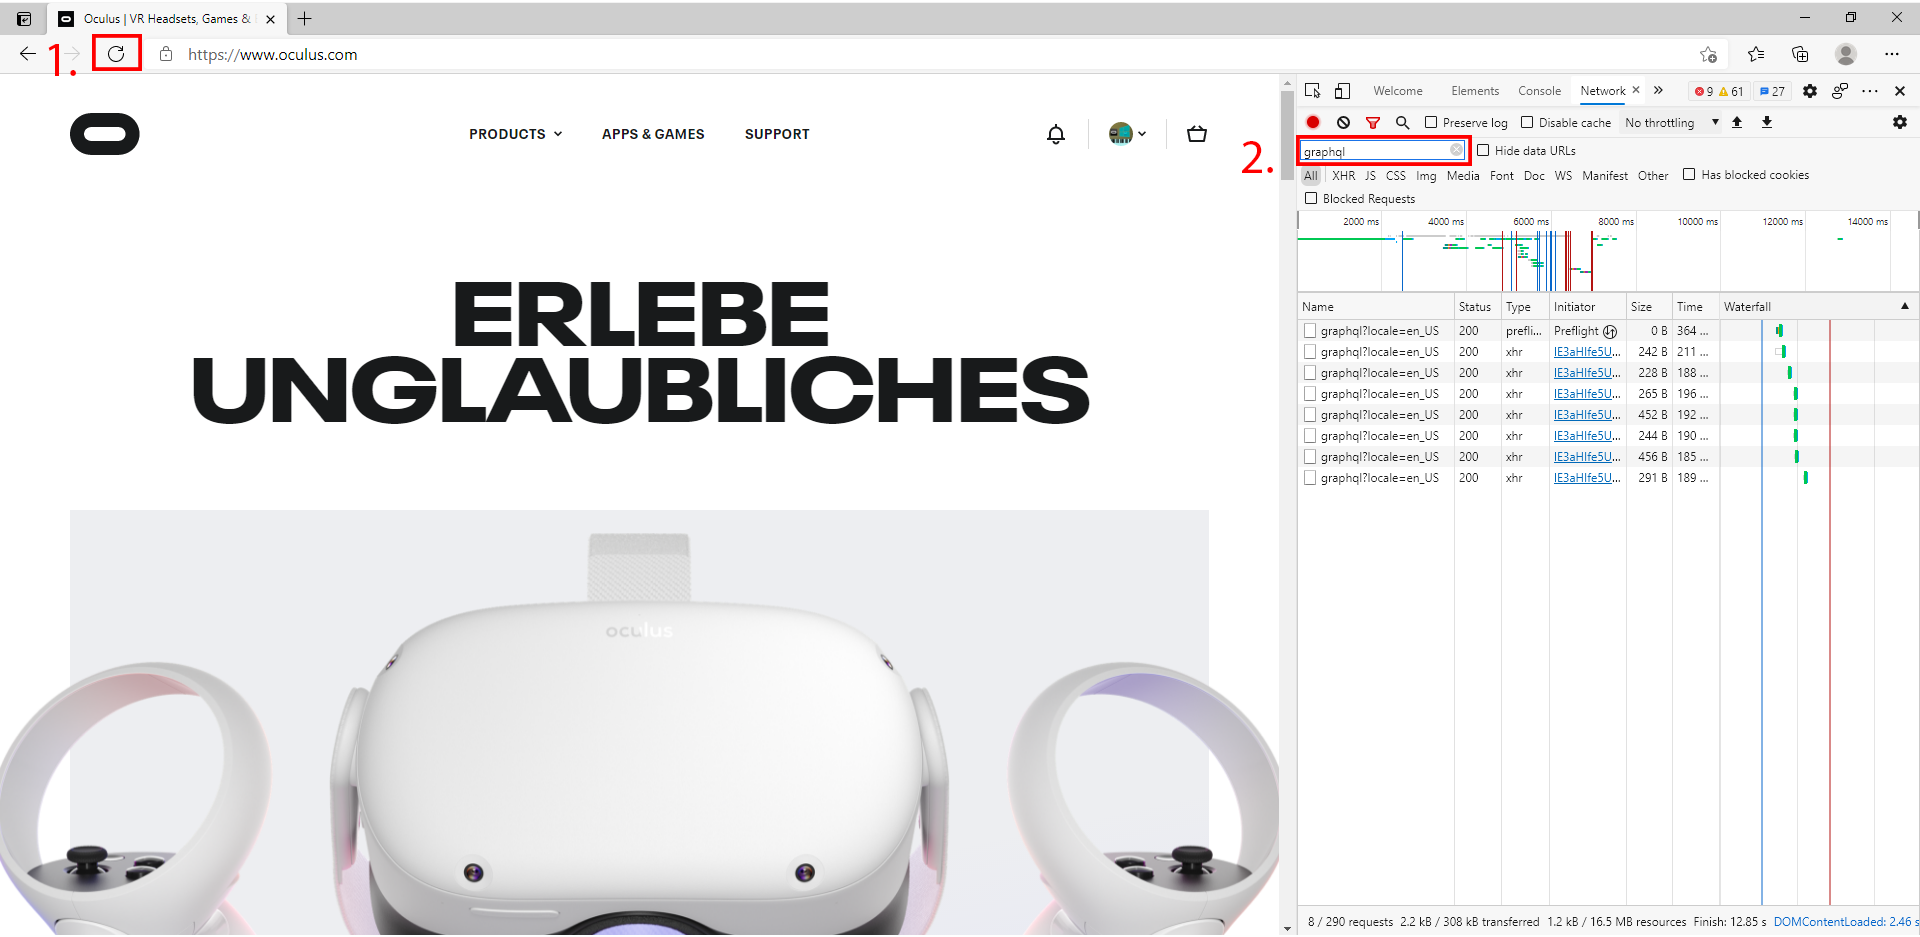
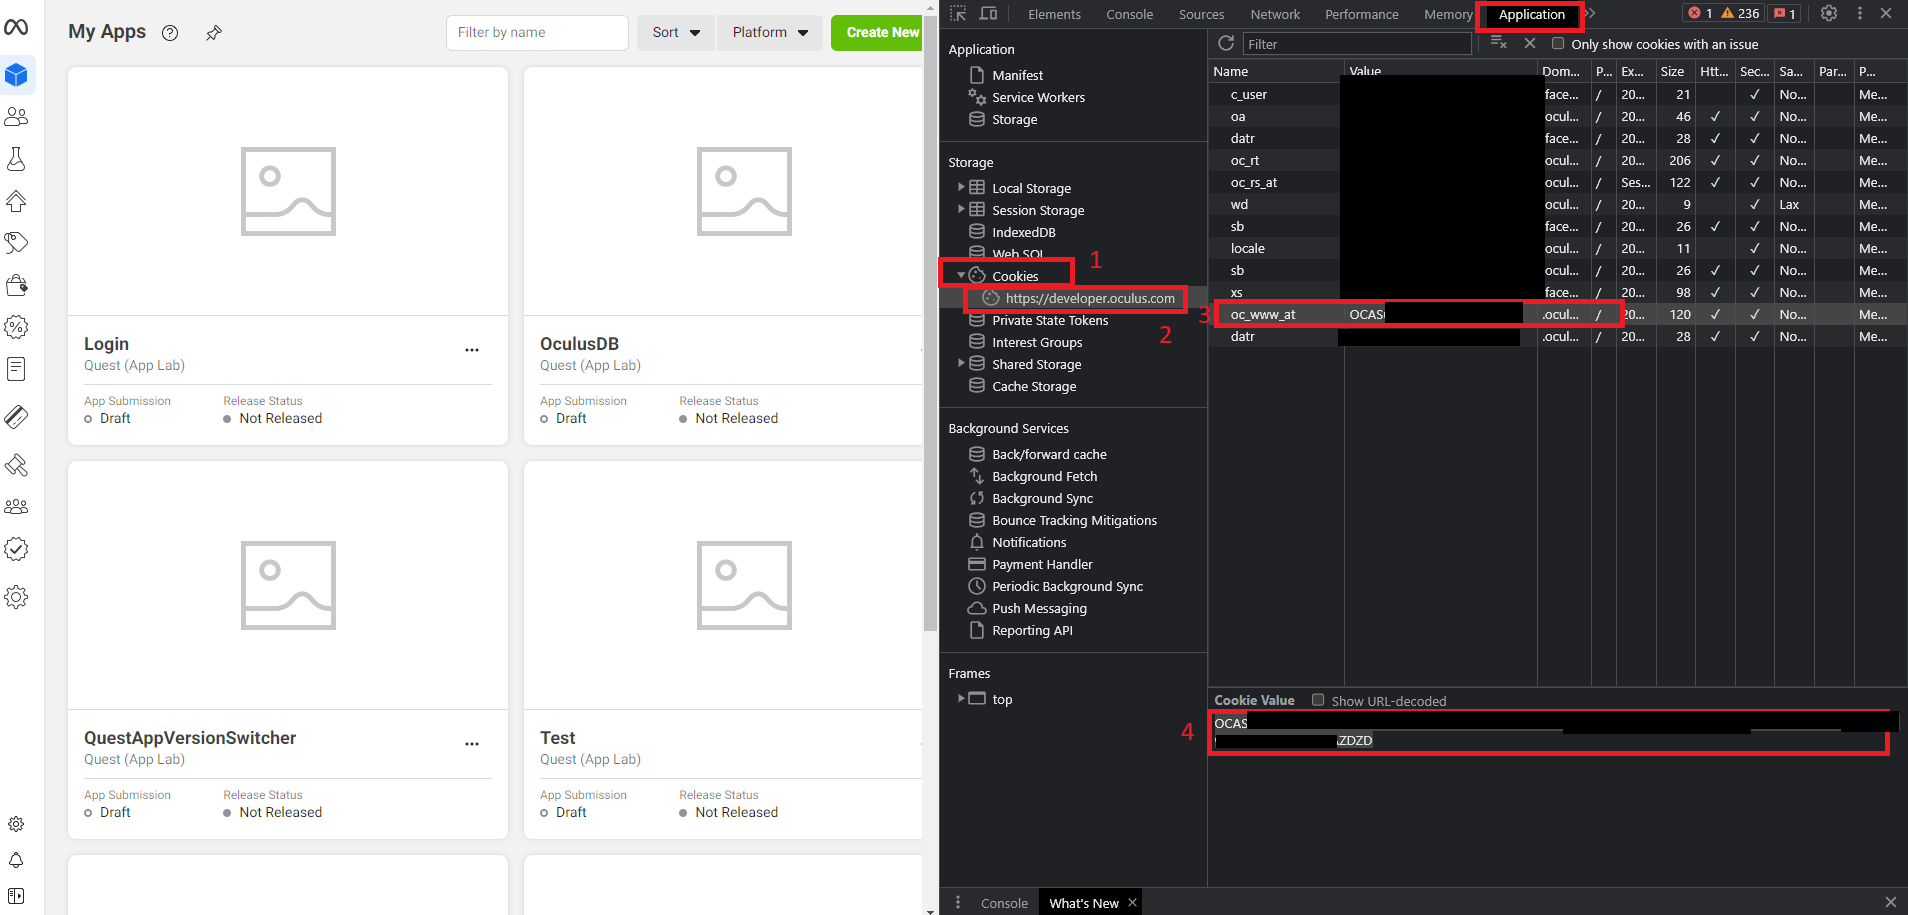
Update token guide

diff --git a/tools/Oculus/ObtainToken.html b/tools/Oculus/ObtainToken.html
@@ -41,10 +41,6 @@
                         <div style="font-size: 24px;">Guide to obtain your Oculus Token</div>
                         <div class="headerDescription">For <a href="https://github.com/ComputerElite/Oculus-downgrader/">Oculus downgrader</a> and other applications</div>
                     </div>
-                    <div class="guideHeader" style="text-align:left; padding: 5px; text-decoration: underline;">Info: Is this tool piracy?</div>
-                    <div class="guideSteps" style="text-align:left; padding: 10px;">
-                        No. You're downloading from Oculus servers and those check that you own the game
-                    </div>
                     <div class="guideHeader" style="text-align:left; padding: 5px; text-decoration: underline;">Important</div>
                     <div class="guideSteps" style="text-align:left; padding: 10px;">
                         Your token is something private. Everyone who has it can download apps, send messages, ... with your name.
@@ -56,52 +52,17 @@
                     </div>
                     <div class="header">Step 2: Open developer tools</div>
                     <div class="step">
-                        <b>PC and Mac:</b>
+                        <b>Chrome:</b>
                         <br/>
-                        On <a href="https://developer.oculus.com/manage">https://developer.oculus.com/manage</a> hit ctrl + shift + i and go to the network tab (see picture)
+                        On <a href="https://developer.oculus.com/manage">https://developer.oculus.com/manage</a> hit ctrl + shift + i and go to the Application tab
                         <br/>
                         <br/>
-                        <b>Kiwi Browser (Android):</b>
-                        <br>
-                        <b>If you haven't already install Kiwi Browser from the Play Store</b>
-                        <br/>
-                        On <a href="https://developer.oculus.com/manage">https://developer.oculus.com/manage</a> tap the 3 dots in the top right and tap on <code>developer tools</code>
                     </div>
-                    <div class="image">
-                        <img src="Steps/Step2.png" width="100%">
-                    </div>
-                    <div class="header">Step 3: Reload the page and filter for graphql</div>
+                    <div class="header">Step 3: Copy the access_token</div>
                     <div class="step">
-                        <b>PC and Mac:</b>
-                        <br/>
-                        Reload the page next to your address bar (1).<br/>
-                        Then in the network tab type <code>graphql</code> into the filter box (2).
+                        Next click on <code>Cookies</code> (1) then <code>https://developer.oculus.com</code> (2) and then <code>oc_www_at</code> (3). You can then copy your token (4) and validate it via the box below.
                         <br/>
                         <br/>
-                        <b>Kiwi Browser (Android):</b>
-                        <br/>
-                        Switch the tab to the developer tools tab that just opened. Click the arrows to the right on the top and click <code>Network</code>. Filter for <code>graphql</code>. Go back to the tab in which you have https://developer.oculus.com/manage open and reload the site.
-                    </div>
-                    <div class="image">
-                        <img src="Steps/Step3.png" width="100%">
-                    </div>
-                    <div class="header">Step 4: Copy the access_token</div>
-                    <div class="step">
-                        Next click the last request (1) and open the payload tab (2) (if payload is not present go to the header tab). Then search for a label named <code>access_token</code>. Copy the text after that (3). You can copy it by right clicking and pressing copy value.
-                        <br/>
-                        <br/>
-                        <b>Firefox:</b>
-                        <br/>
-                        Next click the last request (1) and open the request tab. Then search for a label named <code>access_token</code> and copy its value (3). You can copy it by right clicking and pressing copy value.
-                        <br/>
-                        <br/>
-                        <b>Kiwi Browser (Android):</b>
-                        <br/>
-                        Go back to the dev tools tab and click on the last request at the bottom. Then in the headers tab tap and hold on <code>access_token: </code> and tap copy value.
-                        <br/>
-                        <br/>
-                        Before putting your token it you can check the validity of your token by pasting it into this text box and clicking <code>Validate token</code>
-                        <br>
                         <input type="password" id="token" style="width: 700px; max-width: 100%;">
                         <div class="customButton" style="margin-top: 30px;" onclick="Validate(document.getElementById('token').value)">Validate token</div>
                         <div class="textBox" id="tb"></div>
@@ -109,7 +70,7 @@
                         You can then paste your token with ctrl + v into Oculus downgrader.
                     </div>
                     <div class="image">
-                        <img src="Steps/Step4.png" width="100%">
+                        <img src="Steps/Step3.png" width="100%">
                     </div>
                 </div>
                 
